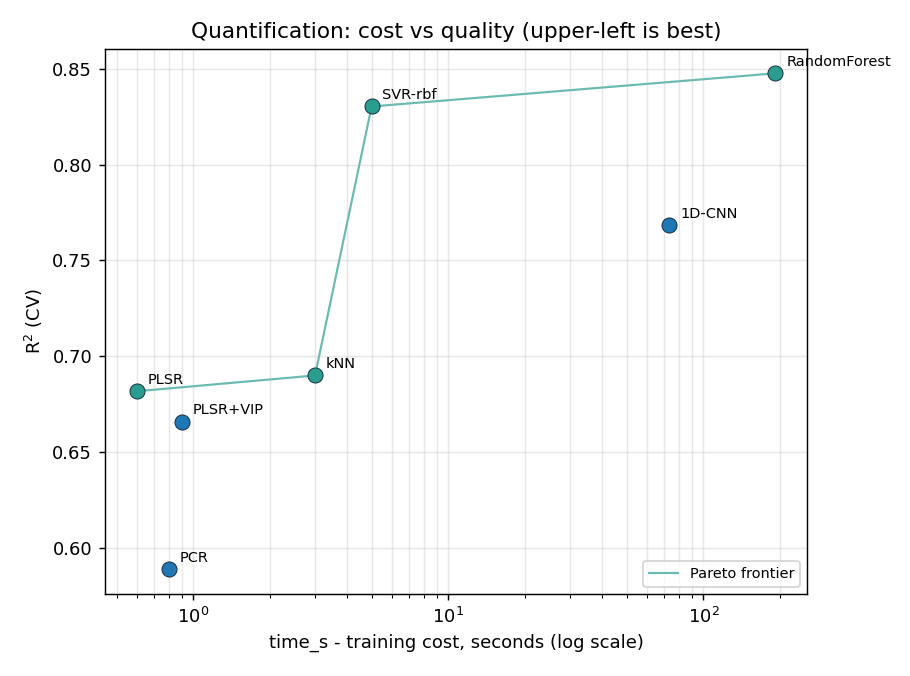
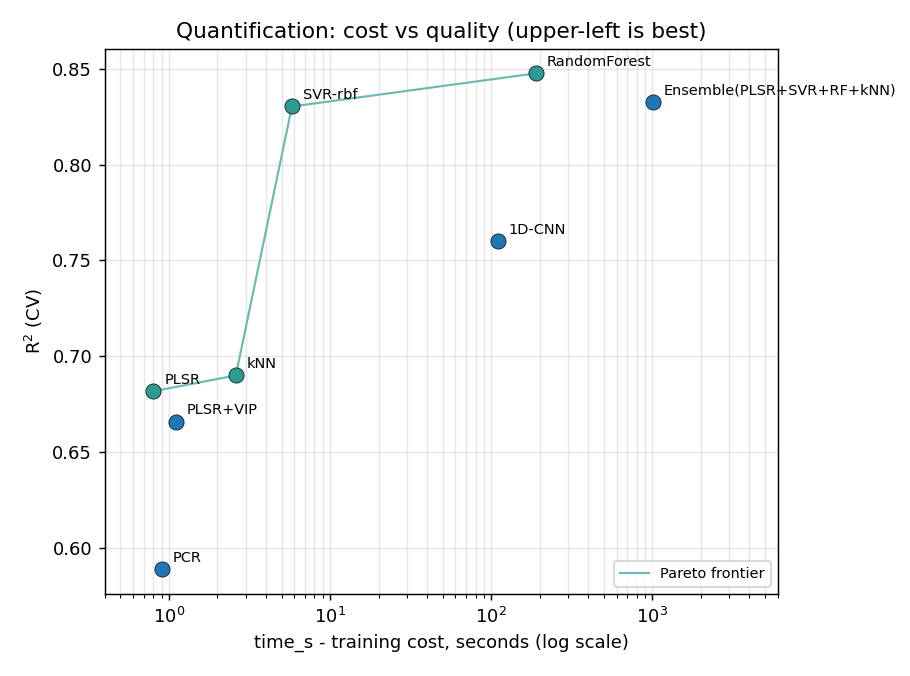
feat(plots): add quantification cost-vs-quality to the results section
Regenerated from the updated CSV so the CV-weighted ensemble now appears (far
right at ~1000s, off the Pareto frontier - slowest yet not best). Padded the
log x-range so long model labels fit. Embedded under the quantification table.

diff --git a/scripts/plot_comparison.py b/scripts/plot_comparison.py
@@ -69,6 +69,8 @@ def cost_quality(df, cost_col, quality_col, qlabel, title, path):
         ax.annotate(name, (x[i], y[i]), textcoords="offset points",
                     xytext=(6, 4), fontsize=8)
     ax.set_xscale("log")
+    # Pad the log x-range so point labels (some are long, e.g. the ensemble) fit.
+    ax.set_xlim(x.min() * 0.5, x.max() * 6)
     ax.set_xlabel(f"{cost_col} - training cost, seconds (log scale)")
     ax.set_ylabel(qlabel); ax.set_title(title)
     ax.grid(alpha=0.3, which="both"); ax.legend(loc="lower right", fontsize=8)

diff --git a/README.md b/README.md
@@ -122,6 +122,13 @@ multi-scale, with augmentation and test-time augmentation) scores **86.2%**
 | **this repo: heterogeneous ensemble + TTA** | **0.862** |
 | SE-ResNet ensemble 2024 (open-world SOTA) | 0.878 |
 
+![classification vs literature](benchmarks/plots/sota_leaderboard.png)
+
+This is an **accuracy-only** comparison on purpose: the papers do not report
+comparable training cost (different hardware and data sizes), so a cost-vs-quality
+view against the literature would have to invent their cost. We show cost-vs-quality
+only for our *own* models, where the seconds are measured on this machine.
+
 We beat the foundational result (+4 pts) **and the 2026 architecture SOTA SANet**,
 and sit ~1.5 pts below the open-world SOTA (0.878) - **while also shipping
 calibrated uncertainty no other Raman repo has**: temperature scaling + RAPS
@@ -257,6 +264,13 @@ The CV-weighted ensemble (`models.WeightedEnsembleRegressor`) lands at R²=0.833
 clearly dominates, so blending it with weaker learners (PLSR/kNN) dilutes rather
 than helps. An honest negative for stacking here, and the reason we report the
 single best model as the headline.
+
+The same models on a **cost-vs-quality** view (training time, log scale, vs R²)
+make the trade-off explicit: **SVR-rbf** is the sweet spot (R² 0.83 in ~6s),
+RandomForest buys the top R² 0.85 for ~190s, and the ensemble sits far right at
+~1000s *off* the Pareto frontier (slowest yet not best).
+
+![quantification cost vs quality](benchmarks/plots/quantification_cost_quality.png)
 
 ### Open-set rejection of unknown isolates
 Closed-set accuracy 0.807; OOD AUROC ~0.73-0.75 (MSP / Energy / Mahalanobis).
